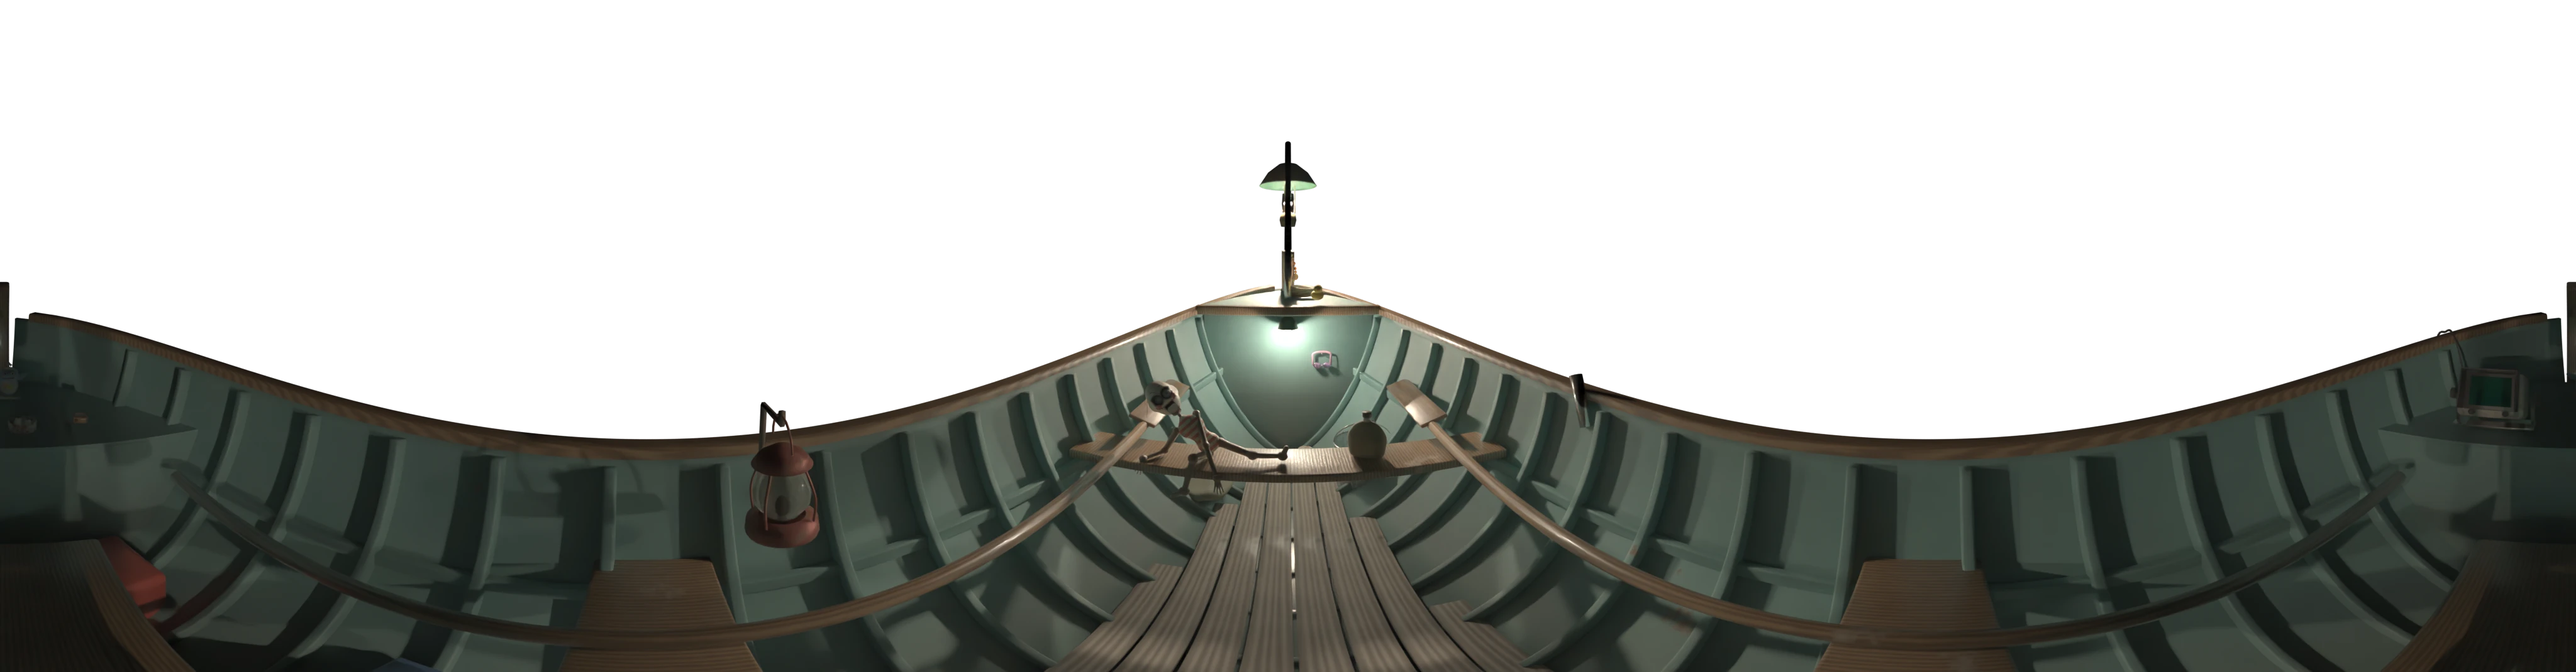
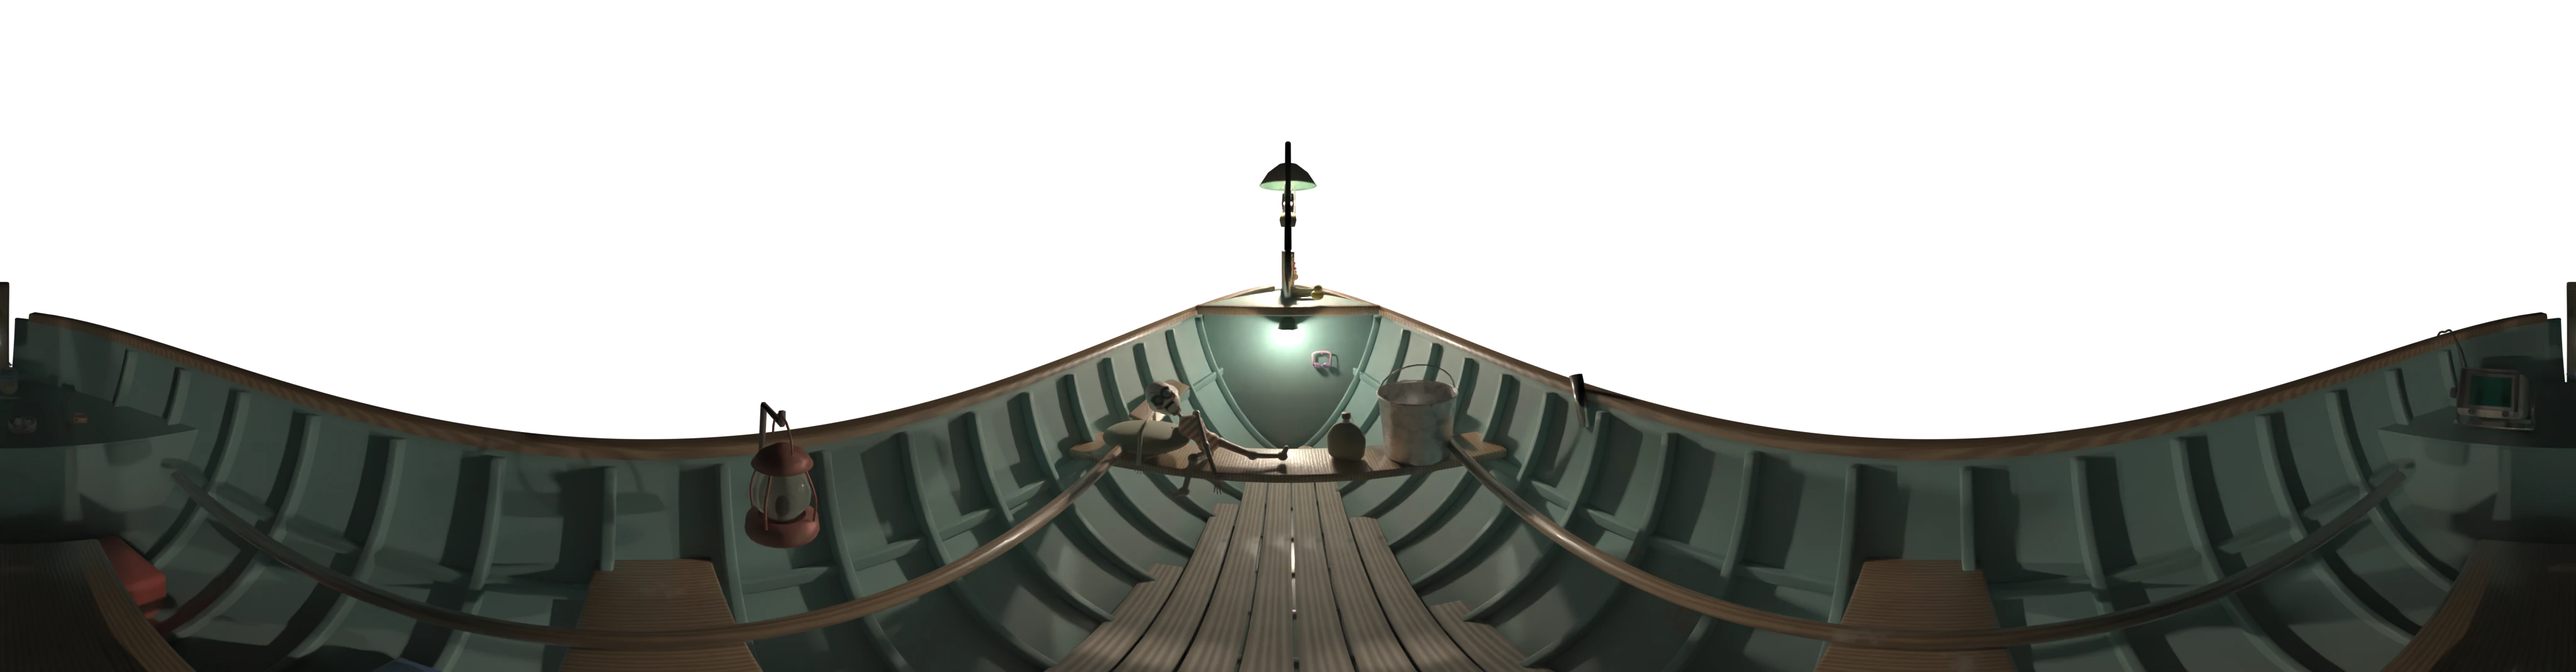
Barca: secchio e telone sul banco di prua (render preview); il telone piegato con la tela cerata nuova
Claude-Session: https://claude.ai/code/session_01EnpEiCdqMobb6kXAdCVCvL

diff --git a/tools/render/boat.py b/tools/render/boat.py
@@ -638,7 +638,8 @@ def build_tarp(mats):
         c.z += fold if c.z > z + 0.05 else 0.0
         c.x += 0.01 * math.sin(c.z * 40)
     bpy.ops.object.shade_smooth()
-    ob.data.materials.append(mats['canvas'])
+    import telone
+    ob.data.materials.append(telone.canvas_material())   # la stessa tela cerata che si vede da sotto
     ob.rotation_euler = (0, 0, math.radians(8))
     set_lightgroup(ob, 'ambient')
     # cima che lo lega, di traverso sul fagotto
